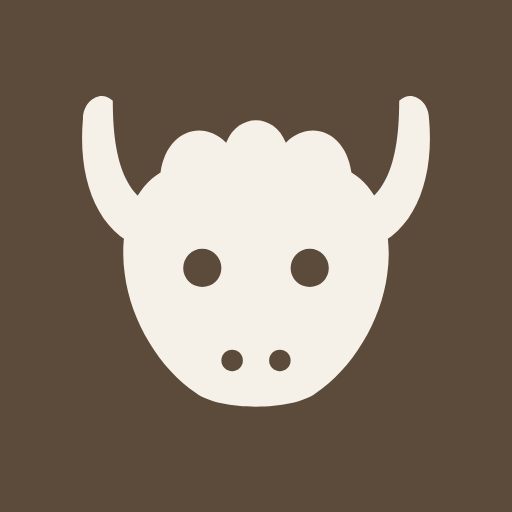
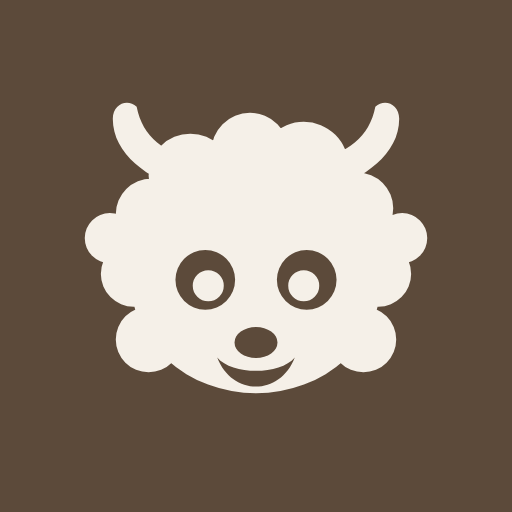
feat(brand): make the yak mark fluffy and friendly
Redraw the mark as a round, shaggy face: fringe, cheeks and ears are
overlapping circles that union under the nonzero fill, the horns are
short curled nubs, and the eyes get pupils, a nose and a small smile.
Regenerate the favicon, touch icon and PWA icons from the new shape.

Claude-Session: https://claude.ai/code/session_012skgfkdMFZkAYbAtj4MyVG

Changed region(s): [[0.1562, 0.1875, 0.8438, 0.8125], [0.5312, 0.4688, 0.6562, 0.625], [0.3438, 0.4688, 0.4688, 0.625]]

diff --git a/resources/js/lib/brand.ts b/resources/js/lib/brand.ts
@@ -1,28 +1,45 @@
 import type { BrandMark } from '@geocodio/console-ui';
 
 /**
- * Yak's identity mark: a shaggy yak head, drawn once as data so the same
+ * Yak's identity mark: a fluffy yak face, drawn once as data so the same
  * silhouette renders in the sidebar lockup, paints the tab favicon and
  * serialises to the static touch icons under `public/`. One flat colour,
- * one closed silhouette; the eyes and nostrils are counter-wound subpaths
- * so they knock out under the nonzero fill rule.
+ * one closed silhouette: the fringe, cheeks and ears are overlapping
+ * clockwise circles that union under the nonzero fill rule, while the eyes,
+ * nose and smile are counter-wound subpaths that knock out, with a
+ * clockwise pupil refilled inside each eye.
  */
 export const YAK_MARK: BrandMark = {
     viewBox: '0 0 64 64',
-    faviconViewBox: '2 4 60 60',
+    faviconViewBox: '2 3 60 60',
     shapes: [
         {
             tag: 'path',
             attrs: {
                 'fill-rule': 'nonzero',
                 d: [
-                    'M16 20 C17 13 23 11 27 15 C29 10 35 10 37 15 C41 11 47 13 48 20 C53 23 55 30 54 37 C53 45 48 53 42 57 C38 60 26 60 22 57 C16 53 11 45 10 37 C9 30 11 23 16 20 Z',
-                    'M14 33 C6 31 2 22 3 11 C3 8 6 6 8 8 C8 20 11 26 19 27 Z',
-                    'M45 27 C53 26 56 20 56 8 C58 6 61 8 61 11 C62 22 58 31 50 33 Z',
-                    'M19.8 36 a3.2 3.2 0 1 0 6.4 0 a3.2 3.2 0 1 0 -6.4 0 Z',
-                    'M37.8 36 a3.2 3.2 0 1 0 6.4 0 a3.2 3.2 0 1 0 -6.4 0 Z',
-                    'M26.2 51.5 a1.8 1.8 0 1 0 3.6 0 a1.8 1.8 0 1 0 -3.6 0 Z',
-                    'M34.2 51.5 a1.8 1.8 0 1 0 3.6 0 a1.8 1.8 0 1 0 -3.6 0 Z',
+                    'M11 37 a21 19 0 1 1 42 0 a21 19 0 1 1 -42 0 Z',
+                    'M8.5 26 a6 6 0 1 1 12 0 a6 6 0 1 1 -12 0 Z',
+                    'M14 19.5 a7 7 0 1 1 14 0 a7 7 0 1 1 -14 0 Z',
+                    'M24.5 15.5 a6.5 6.5 0 1 1 13 0 a6.5 6.5 0 1 1 -13 0 Z',
+                    'M32.5 18 a7.5 7.5 0 1 1 15 0 a7.5 7.5 0 1 1 -15 0 Z',
+                    'M43 25 a6 6 0 1 1 12 0 a6 6 0 1 1 -12 0 Z',
+                    'M6 36 a5.5 5.5 0 1 1 11 0 a5.5 5.5 0 1 1 -11 0 Z',
+                    'M47 36 a5.5 5.5 0 1 1 11 0 a5.5 5.5 0 1 1 -11 0 Z',
+                    'M8.5 47 a5.5 5.5 0 1 1 11 0 a5.5 5.5 0 1 1 -11 0 Z',
+                    'M44.5 47 a5.5 5.5 0 1 1 11 0 a5.5 5.5 0 1 1 -11 0 Z',
+                    'M9 30 a4 4 0 1 1 8 0 a4 4 0 1 1 -8 0 Z',
+                    'M47 30 a4 4 0 1 1 8 0 a4 4 0 1 1 -8 0 Z',
+                    'M3.3 30 a4.2 4.2 0 1 1 8.4 0 a4.2 4.2 0 1 1 -8.4 0 Z',
+                    'M52.3 30 a4.2 4.2 0 1 1 8.4 0 a4.2 4.2 0 1 1 -8.4 0 Z',
+                    'M20 22 C14 20 8 16 8 10 C8 7.5 10.5 6.5 12 8 C13 13 16.5 16 23 17 Z',
+                    'M41 17 C47.5 16 51 13 52 8 C53.5 6.5 56 7.5 56 10 C56 16 50 20 44 22 Z',
+                    'M18.5 37 a5 5 0 1 0 10 0 a5 5 0 1 0 -10 0 Z',
+                    'M21.4 38 a2.6 2.6 0 1 1 5.2 0 a2.6 2.6 0 1 1 -5.2 0 Z',
+                    'M35.5 37 a5 5 0 1 0 10 0 a5 5 0 1 0 -10 0 Z',
+                    'M37.4 38 a2.6 2.6 0 1 1 5.2 0 a2.6 2.6 0 1 1 -5.2 0 Z',
+                    'M28.4 47.5 a3.6 2.6 0 1 0 7.2 0 a3.6 2.6 0 1 0 -7.2 0 Z',
+                    'M25.5 50 C28 56.5 36 56.5 38.5 50 C36 53 28 53 25.5 50 Z',
                 ].join(' '),
             },
         },
